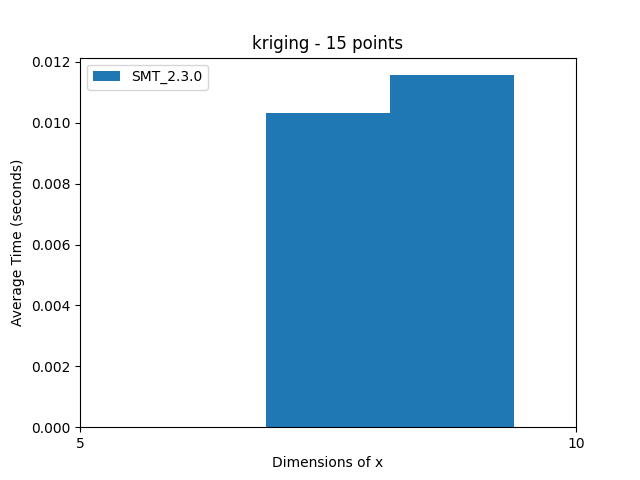
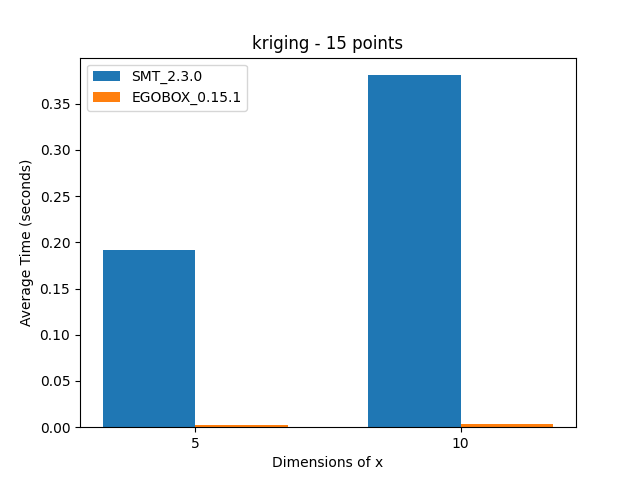
new diagrams for kriging and little modifications

diff --git a/krig_diagram.py b/krig_diagram.py
@@ -2,13 +2,16 @@ import csv
 import matplotlib.pyplot as plt
 import numpy as np
 
-data = {"SMT_2.3.0": {}}
+SMT_VERSION = "SMT_2.3.0"
+EGOBOX_VERSION = "EGOBOX_0.15.1"
+data = {SMT_VERSION: {}, EGOBOX_VERSION: {}}
+CSV_FILENAME = "kriging.csv"
 # NB_POINTS = [10, 50, 100, 250, 500, 1000]
 NB_POINTS = [10, 13, 15]
 
 
 def sort_dimensions():
-    matrix_dimensions = list(set(data["SMT_2.3.0"].keys()))
+    matrix_dimensions = list(set(data[SMT_VERSION].keys()))
     nb_matrix = [int(dim) for dim in matrix_dimensions]
     sort_matrix = sorted(nb_matrix)
     sort_matrix_str = [str(number) for number in sort_matrix]
@@ -33,35 +36,30 @@ def read_from_csv(CSV_filename):
 
 
 def create_chart(matrix_dimensions):
-    num_points = len(NB_POINTS)
-    bar_width = 0.2
-    total_width = num_points * bar_width
-    gap = 0.2
+    for npoints in NB_POINTS:
+        fig, ax = plt.subplots()
+        bar_width = 0.35
 
-    for i, npoints in enumerate(NB_POINTS):
-        matrix = [data["SMT_2.3.0"][matrix][npoints] for matrix in matrix_dimensions]
+        for i, program in enumerate([SMT_VERSION, EGOBOX_VERSION]):
+            matrix = [data[program][matrix][npoints] for matrix in matrix_dimensions]
 
-        plt.bar(
-            np.arange(len(matrix_dimensions)) * bar_width + total_width,
-            matrix,
-            width=bar_width,
-            label="SMT_2.3.0",
-        )
+            ax.bar(
+                np.arange(len(matrix_dimensions)) + i * bar_width,
+                matrix,
+                width=bar_width,
+                label=program,
+            )
 
-        plt.xlabel("Dimensions of x")
-        plt.ylabel("Average Time (seconds)")
-        plt.title(f"kriging - {npoints} points")
-        plt.xticks(
-            np.arange(len(matrix_dimensions)) * (total_width + gap)
-            + (total_width - bar_width) / 2,
-            matrix_dimensions,
-        )
-        plt.legend()
+        ax.set_xticks(np.arange(len(matrix_dimensions)) + bar_width / 2)
+        ax.set_xticklabels(matrix_dimensions)
+        ax.set_xlabel("Dimensions of x")
+        ax.set_ylabel("Average Time (seconds)")
+        ax.set_title(f"kriging - {npoints} points")
+        ax.legend()
 
         plt.savefig(f"results/kriging/results_krig_{npoints}_points.png")
-        plt.show()
 
 
 if __name__ == "__main__":
-    read_from_csv("kriging.csv")
+    read_from_csv(CSV_FILENAME)
     create_chart(sort_dimensions())

diff --git a/benchmark.py b/benchmark.py
@@ -6,10 +6,10 @@ import time
 from smt.sampling_methods import LHS
 import egobox as egx
 
-# DIMENSIONS = [5, 10, 20, 100, 200, 500]
-DIMENSIONS = [5, 10]
-NB_POINTS = [10, 13, 15]
-# NB_POINTS = [10, 50, 100, 250, 500, 1000]
+DIMENSIONS = [5, 10, 20, 100, 200, 500]
+# DIMENSIONS = [5, 10]
+# NB_POINTS = [10, 13, 15]
+NB_POINTS = [10, 50, 100, 250, 500, 1000]
 NB_ITER = 20
 SMT_VERSION = "SMT_2.3.0"
 EGOBOX_VERSION = "EGOBOX_0.15.1"
@@ -67,7 +67,7 @@ def run_benchmark(lhs_option):
             xlimits = np.full((dim, 2), [0, 1])
             for num_points in NB_POINTS:
                 print(
-                    f"Running benchmark with {lib} {args.lhs} for {xlimits.shape} and {num_points} points"
+                    f"Running benchmark with {lib} {lhs_option} for {xlimits.shape} and {num_points} points"
                 )
                 time = timeit.timeit(
                     lambda: ALGOS[lib](xlimits, num_points, lhs_option), number=NB_ITER

diff --git a/kriging_bench.py b/kriging_bench.py
@@ -7,12 +7,12 @@ import time
 import csv
 
 start = time.time()
-# DIMENSIONS = [5, 10, 20, 100, 200, 500]
-DIMENSIONS = [5, 10]
-NB_POINTS = [10, 13, 15]
-# NB_POINTS = [10, 50, 100, 250, 500, 1000]
-NB_ITER = 5
-CSV_filename = "kriging.csv"
+DIMENSIONS = [5, 10, 20, 50, 100]
+# DIMENSIONS = [5, 10]
+# NB_POINTS = [10, 13, 15]
+NB_POINTS = [50, 200, 400, 600, 1000]
+NB_ITER = 20
+CSV_FILENAME = "kriging.csv"
 SMT_VERSION = "SMT_2.3.0"
 EGOBOX_VERSION = "EGOBOX_0.15.1"
 LIBRARIES = [SMT_VERSION, EGOBOX_VERSION]
@@ -71,5 +71,5 @@ def write_to_csv(csv_filename, result):
 
 
 if __name__ == "__main__":
-    write_to_csv(CSV_filename, run_benchmark())
+    write_to_csv(CSV_FILENAME, run_benchmark())
     print(f"{time.time() - start} seconds")

diff --git a/diagram_creator.py b/diagram_creator.py
@@ -8,7 +8,6 @@ EGOBOX_VERSION = "EGOBOX_0.15.1"
 data = {SMT_VERSION: {}, EGOBOX_VERSION: {}}
 # NB_POINTS = [10, 50, 100, 250, 500, 1000]
 NB_POINTS = [10, 13, 15]
-FILE = False
 LHS_OPTION_NAMES = ["optimized", "classic", "centered", "maximin", "centered_maximin"]
 
 
@@ -43,7 +42,9 @@ def create_chart(matrix_dimensions, lhs_option):
         ax.set_title(f"LHS {lhs_option} - {npoints} points")
         ax.legend()
 
-        plt.savefig(f"results/lhs_{lhs_option}/LHS_{lhs_option}_{npoints}_points.png")
+        plt.savefig(
+            f"results/lhs_{lhs_option}/LHS_{lhs_option}_{npoints}_points_{SMT_VERSION}_{EGOBOX_VERSION}.png"
+        )
 
 
 def read_from_csv(CSV_filename):
